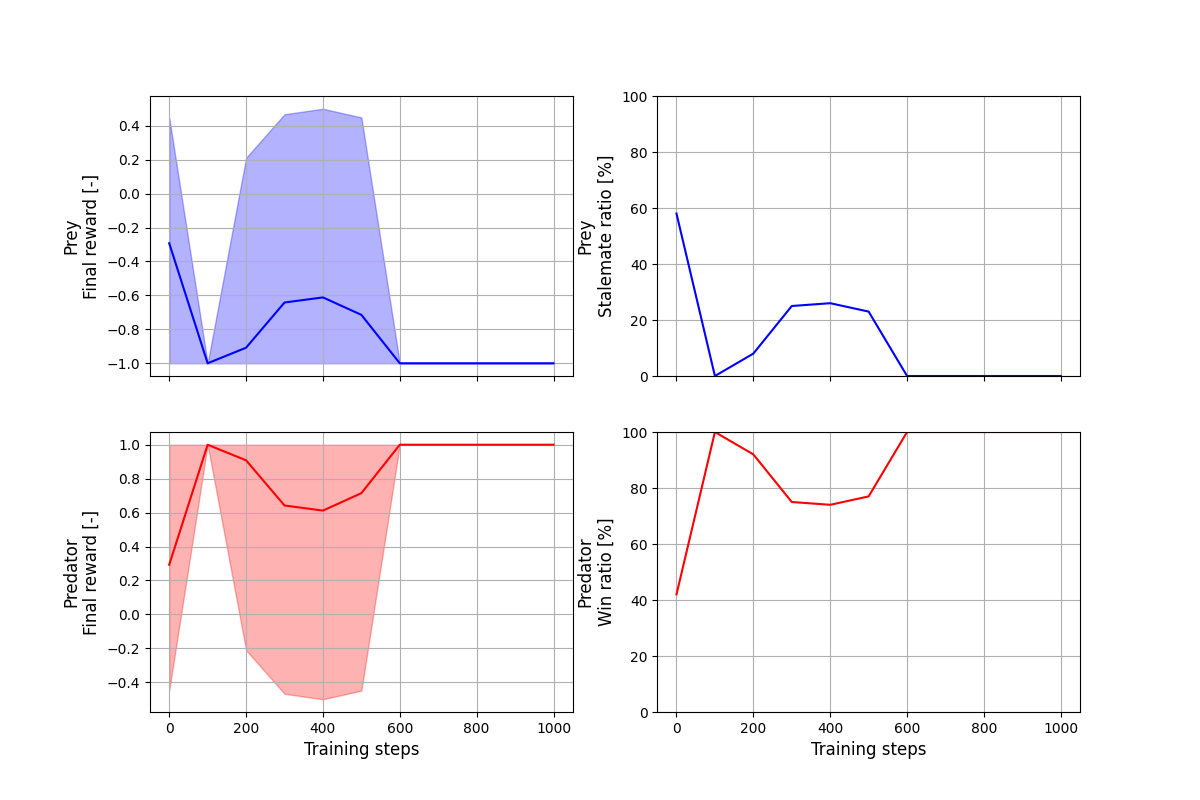
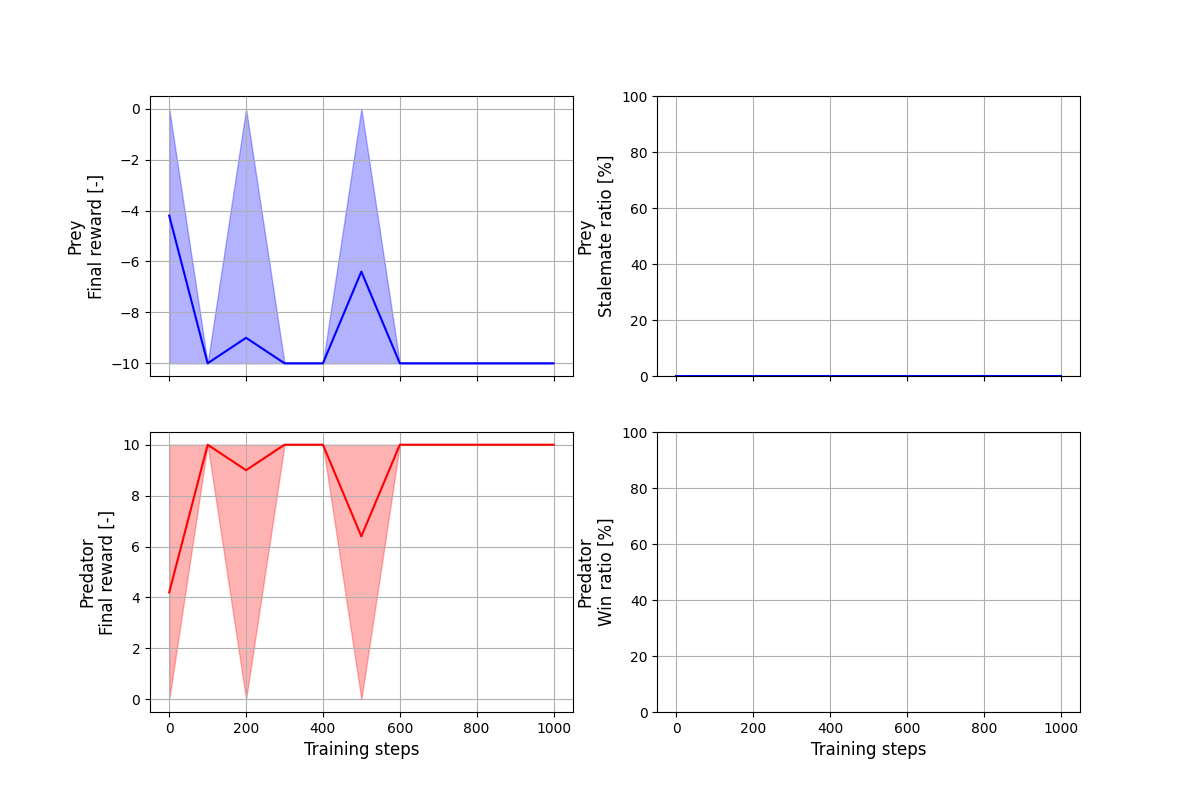
Changed reward scheme to sparse--> improved learning Found good training hyperparameters for hunting game.

diff --git a/benchmarks/marl/hunting/hunting_env.py b/benchmarks/marl/hunting/hunting_env.py
@@ -28,6 +28,7 @@ REWARDS = Float[Array, "n_predators+n_prey"]
 class EnvState:
     time: jnp.float32
     positions: STATE
+    distance: jnp.float32
 
 
 @struct.dataclass
@@ -39,7 +40,7 @@ class EnvParams:
     predator_radius: float = .1
     max_time: float = 1.
     dt: float = .01
-    caught_reward: float = 1.
+    caught_reward: float = 10.
     # x_lims: Tuple[float, float] = (0., 1.)
     # y_lims: Tuple[float, float] = (0., 1.)
     x_lims: Tuple[float, float] = (0., .5)
@@ -48,27 +49,26 @@ class EnvParams:
 
 class HuntingBase(environment.Environment):
 
-    def __init__(self, allow_timeover: bool = False):
+    def __init__(self):
         self.n_actors = 2
-        self.allow_timeover = allow_timeover
 
     def get_obs(self, state: EnvState) -> STATE:
-        return jnp.hstack((jnp.expand_dims(state.time, axis=-1), state.positions.reshape(1, -1)), dtype=jnp.float32)
-        # return state.positions.reshape(1, -1)
+        # return jnp.hstack((jnp.expand_dims(state.time, axis=-1), state.positions.reshape(1, -1)), dtype=jnp.float32)
+        return state.positions.flatten()
 
     def reset_env(self, key: chex.PRNGKey, env_params: Optional[EnvParams] = None) -> Tuple[STATE, EnvState]:
-
-        n_dim = 2  # FIXME: Make variable
 
         rng, *rngs = jax.random.split(key, 3)
         rng_x, rng_y = rngs
 
-        x_coords = jax.random.uniform(rng_x, minval=env_params.x_lims[0], maxval=env_params.x_lims[1], shape=(n_dim,))
-        y_coords = jax.random.uniform(rng_y, minval=env_params.y_lims[0], maxval=env_params.y_lims[1], shape=(n_dim,))
+        x_coords = jax.random.uniform(rng_x, minval=env_params.x_lims[0], maxval=env_params.x_lims[1], shape=(self.n_actors,))
+        y_coords = jax.random.uniform(rng_y, minval=env_params.y_lims[0], maxval=env_params.y_lims[1], shape=(self.n_actors,))
 
-        state = jnp.stack((x_coords.T, y_coords.T), axis=-1)
+        positions = jnp.stack((x_coords.T, y_coords.T), axis=-1)
 
-        state = EnvState(time=jnp.zeros(1), positions=state)
+        distance = self._distance(positions)
+
+        state = EnvState(time=jnp.zeros(1), positions=positions, distance=distance)
 
         return self.get_obs(state), state
 
@@ -88,18 +88,17 @@ class HuntingBase(environment.Environment):
         return next_positions
 
     def _distance(self, positions: POSITIONS) -> Float[Array, "1"]:
-        return jnp.linalg.norm((jnp.take(positions, 0, axis=0) - jnp.take(positions, 1, axis=0)))
+        return jnp.linalg.norm(jnp.diff(positions, axis=0))
 
     def _reward(self, time: Float[Array, "1"], distance: Float[Array, "1"], prey_caught: Bool[Array, "1"],
-                timeover: Bool[Array, "1"], env_params: EnvParams) -> REWARDS:
+                env_params: EnvParams) -> REWARDS:
 
-        reward_prey = jnp.where(prey_caught, -env_params.caught_reward, distance)
-        reward_predator = jnp.where(prey_caught, env_params.caught_reward, -distance)
+        # reward_prey = jnp.where(prey_caught, -env_params.caught_reward, distance)
+        # reward_predator = jnp.where(prey_caught, env_params.caught_reward, -distance)
+        reward_prey = jnp.where(prey_caught, -env_params.caught_reward, 0)
+        reward_predator = jnp.where(prey_caught, env_params.caught_reward, -0)
         rewards = jnp.stack((reward_prey, reward_predator), axis=-1).squeeze()
         # rewards = jnp.stack((distance, -distance), axis=-1).squeeze()
-
-        # rewards_time_over = jnp.asarray([env_params.caught_reward, -env_params.caught_reward]).squeeze()
-        # rewards = jnp.where(timeover, rewards_time_over, rewards)
 
         return rewards
 
@@ -110,19 +109,17 @@ class HuntingBase(environment.Environment):
 
         velocities = jnp.expand_dims(jnp.asarray([env_params.prey_velocity, env_params.predator_velocity]), axis=-1)
 
-        time, positions = state.time, state.positions
+        time, positions, distance = state.time, state.positions, state.distance
         next_time = time + env_params.dt
         next_positions = self.update_positions(positions, directions, velocities, env_params)
-        next_state = EnvState(time=next_time, positions=next_positions)
+        next_distance = self._distance(next_positions)
+        next_state = EnvState(time=next_time, positions=next_positions, distance=next_distance)
 
-        distance = self._distance(next_positions)
+        prey_caught = jnp.less_equal(next_distance, env_params.predator_radius)
+        truncated = jnp.greater(time, env_params.max_time)  # Truncation = time over
+        terminated = prey_caught
 
-        prey_caught = jnp.less_equal(distance, env_params.predator_radius)
-        truncated = jnp.greater(time, env_params.max_time)  # Truncation = timeover
-        timeover = jnp.logical_and(truncated, self.allow_timeover)  # Terminate when timeover.
-        terminated = jnp.logical_or(prey_caught, timeover)
-
-        rewards = self._reward(next_time, distance, prey_caught, timeover, env_params)
+        rewards = self._reward(next_time, distance, prey_caught, env_params)
 
         info = {
             "truncated": truncated.squeeze(),
@@ -206,6 +203,11 @@ class HuntingBase(environment.Environment):
     def name(self) -> str:
         return "Hunting"
 
+    def simple_strategy(self, env_state: EnvState, env_params: EnvParams) -> ACTIONS:
+        positions = env_state.positions
+        positions_diff = jnp.diff(positions, axis=0)
+        angle = jnp.atan(jnp.take())
+        return jnp.asarray([angle.squeeze(), angle.squeeze()])
 
 class HuntingDiscrete(HuntingBase):
     

diff --git a/benchmarks/marl/hunting/hunting_continuous_ippo.py b/benchmarks/marl/hunting/hunting_continuous_ippo.py
@@ -109,7 +109,7 @@ def export_csv(render_metrics, csv_path):
 if __name__ == "__main__":
 
     env_params = EnvParams(prey_velocity=1., predator_velocity=1.)
-    env = HuntingContinuous(allow_timeover=False)
+    env = HuntingContinuous()
 
     if sys.platform == "win32":
         checkpoint_dir = "C:\\Users\\mavritsa\\Repositories\\jax-agents\\benchmarks\\marl\\hunting\\checkpoints\\ippo\\continuous"
@@ -120,23 +120,23 @@ if __name__ == "__main__":
         n_steps=1_000,
         batch_size=128,
         minibatch_size=16,
-        rollout_length=300,
-        actor_epochs=30,
-        critic_epochs=30,
+        rollout_length=500,
+        actor_epochs=10,
+        critic_epochs=10,
         actor_network=PGActorContinuous,
         critic_network=PGCritic,
         optimizer=optax.adam,
         eval_frequency=100,
         eval_rng=jax.random.PRNGKey(18),
         n_evals=100,
-        checkpoint_dir=checkpoint_dir,
-        restore_agent=False,
+        # checkpoint_dir=checkpoint_dir,
+        # restore_agent=False,
         # restore_agent=True,
     )
 
     hyperparams = HyperParameters(
         gamma=0.99,
-        eps_clip=0.1,
+        eps_clip=0.10,
         kl_threshold=1e-5,
         gae_lambda=0.97,
         ent_coeff=0.01,
@@ -152,6 +152,7 @@ if __name__ == "__main__":
     rng = jax.random.PRNGKey(42)
     rng_train, rng_eval = jax.random.split(rng)
     runner, training_metrics = jax.block_until_ready(ippo.train(rng_train, hyperparams))
+    # with jax.disable_jit(True): runner, training_metrics = jax.block_until_ready(ippo.train(rng_train, hyperparams))
     eval_metrics = jax.block_until_ready(ippo.eval(rng_eval, runner.actor_training, n_evals=16))
 
     training_plot_path = r"figures/continuous/ippo_continuous_policy_training_{steps}steps.png".format(steps=config.n_steps)
@@ -167,9 +168,9 @@ if __name__ == "__main__":
         metrics = {
             "step": i,
             "time": state_env.time,
-            "positions": state_env.positions.reshape(-1, 2, 2),
+            "positions": state_env.positions,
             "actions": actions,
-            "next_positions": next_env_state.positions.reshape(-1, 2, 2),
+            "next_positions": next_env_state.positions,
             "reward": reward,
             "terminated": terminated,
             "values": values,
@@ -185,6 +186,7 @@ if __name__ == "__main__":
 
     csv_path = r"figures/continuous/details.csv"
     export_csv(render_metrics, csv_path)
+    print("Exported csv")
 
     gif_path = r"figures/continuous/ippo_continuous_policy_{steps}steps.gif".format(steps=config.n_steps)
     env.animate(render_metrics["positions"], render_metrics["actions"], render_metrics["values"], env_params, gif_path, export_pdf=True)
